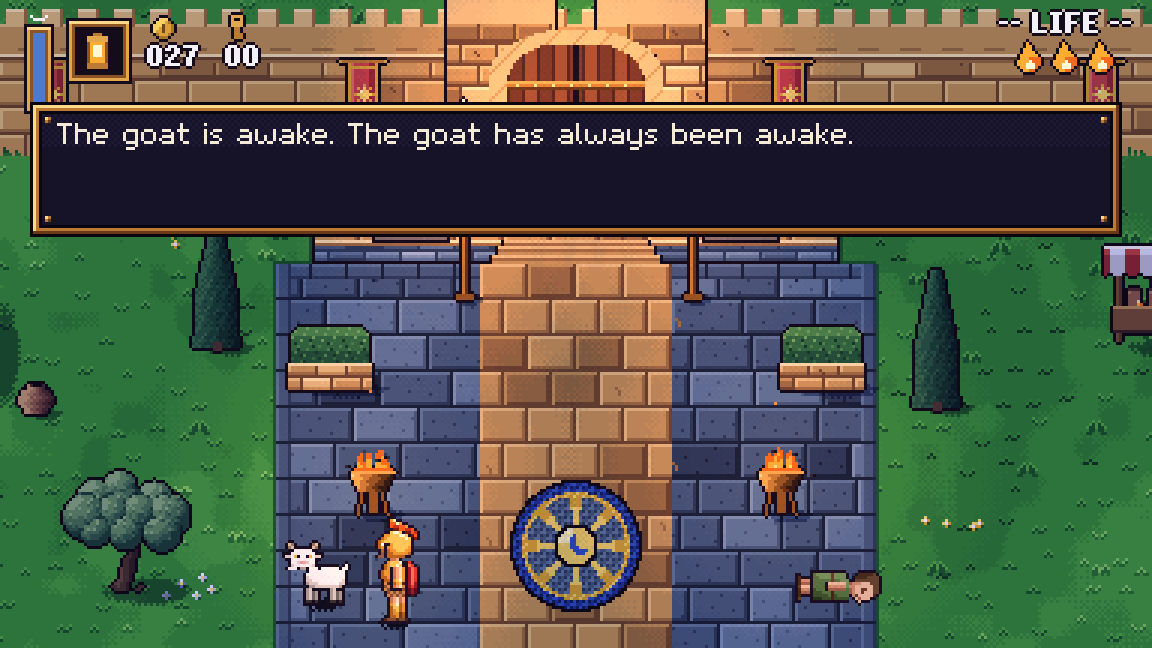
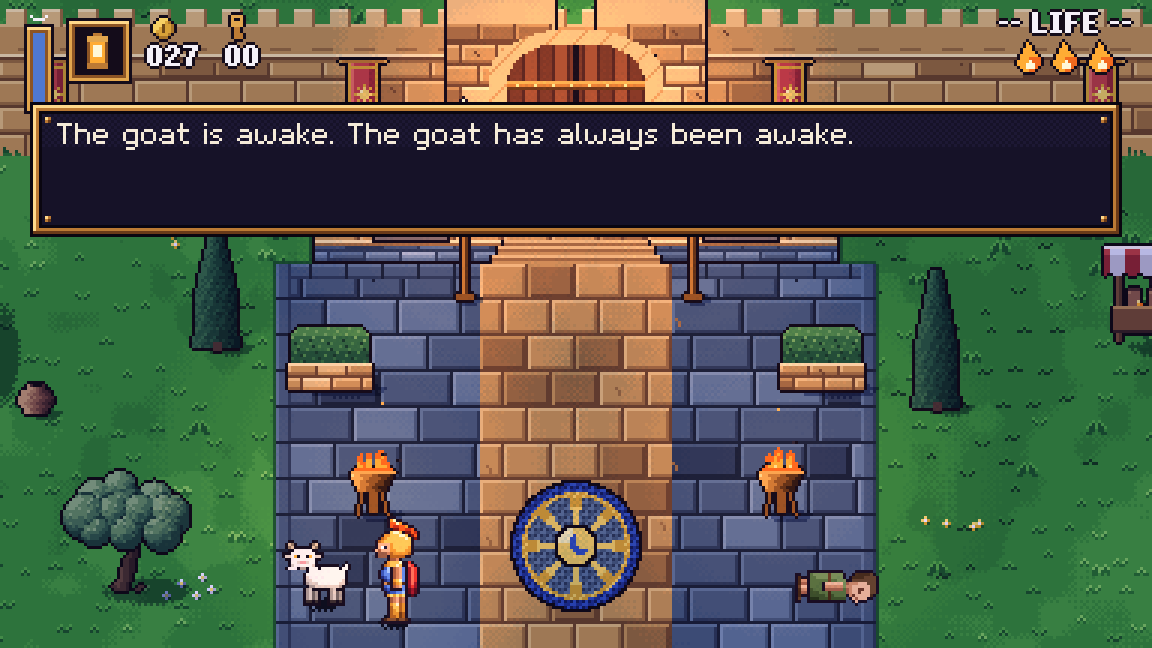
Azar in colour blocks you can read at a glance: open-faced helmet, blue tunic, red cape; Captain Dur in green; a face on the Brazen Bull; cleaner slate and marble

Changed region(s): [[0.3125, 0.8333, 0.375, 0.9259], [0.6875, 0.8642, 0.7812, 0.9259]]

diff --git a/Art/pixel/bull.py b/Art/pixel/bull.py
@@ -6,9 +6,6 @@ The body is modelled from solids (ellipsoids and tapered limbs) into a small dep
 masses that meet blend into one casting, and only real overlaps (a near leg over the barrel, the
 head over the neck) get a dark seam. Light comes from the top left; the belly picks up the fire
 from underneath. Tones are quantised to a short bronze ramp with no dithering, then the whole
-import os
-PREVIEWS = os.environ.get('WF_PREVIEWS', '/tmp/wakefire-previews')
-os.makedirs(PREVIEWS, exist_ok=True)
 silhouette gets the game's dark outline.
 
     python3 bull.py            export Resources/Sprites/bull.png/.json
@@ -18,6 +15,9 @@ import sys, math, json
 import numpy as np
 sys.path.insert(0, '/srv/Wakefire/Art/pixel')
 from px import Canvas
+import os
+PREVIEWS = os.environ.get('WF_PREVIEWS', '/tmp/wakefire-previews')
+os.makedirs(PREVIEWS, exist_ok=True)
 
 OUT = '/srv/Wakefire/Assets/Wakefire/Resources/Sprites'
 SCRATCH = PREVIEWS
@@ -283,7 +283,7 @@ def front(t=0.0, step=0.0, bob=0, head=0, jaw=0, low=0, lit=1.0, puff=0, splay=0
         S.ell(x + s_ * splay, base - 4 - lift, -13, 3.8, 2.3, 2, 'hoof')
     S.ell(cx, y0 - 35, -8, 23, 14, 12)                 # the barrel, at the sides
     S.ell(cx, y0 - 50, -4, 18, 10, 10)                 # the hump behind the head
-    S.ell(cx, y0 - 37, 0, 21, 17, 12, power=2.2)       # chest and shoulders
+    S.ell(cx, y0 - 37, 0, 21, 17, 12, 'far', power=2.2)       # chest and shoulders, darker so the head stands out
     for s_, ph in ((-1, 0.0), (1, 0.5)):
         lift = max(0, int(round(math.sin((t + ph) * 2 * math.pi) * step * 3)))
         x = cx + s_ * 11
@@ -308,11 +308,28 @@ def front(t=0.0, step=0.0, bob=0, head=0, jaw=0, low=0, lit=1.0, puff=0, splay=0
                 [2.6, 2.1, 1.5, 0.7], ['horn', 'horn', 'horn_tip'])
     cv = S.render(lit)
     grille(cv, cx - 6, y0 - 30, 13, 8, t, lit)                            # the furnace door in the chest
+    dark = rgb('#2a1208')
     for s_ in (-1, 1):
-        coal(cv, cx + s_ * 5 - (1 if s_ > 0 else 0), int(hy) - 2, lit)
-    if lit > 0.2:
-        for s_ in (-1, 1):
-            cv.px(cx + s_ * 3 - (1 if s_ > 0 else 0), int(hy) + 14 - (2 if jaw else 0), FIRE[1])
+        ex = cx + s_ * 5 - (1 if s_ > 0 else 0)
+        # a deep socket under a heavy brow, the coal burning inside it
+        for yy in range(int(hy) - 3, int(hy) + 1):
+            for xx in range(ex - 1, ex + 3):
+                cv.px(xx, yy, dark)
+        coal(cv, ex, int(hy) - 2, lit)
+        for xx in range(ex - 2, ex + 4):
+            cv.px(xx, int(hy) - 4, rgb('#ffeeb0') if s_ < 0 else rgb('#f0bc58'))
+    # the muzzle: a dark band with two burning nostrils
+    my = int(hy) + 13 - (2 if jaw else 0)
+    for xx in range(cx - 5, cx + 5):
+        cv.px(xx, my, dark); cv.px(xx, my + 1, dark)
+    for s_ in (-1, 1):
+        nx_ = cx + s_ * 3 - (1 if s_ > 0 else 0)
+        cv.px(nx_, my, FIRE[1] if lit > 0.2 else COOL[4]); cv.px(nx_, my + 1, FIRE[3] if lit > 0.2 else COOL[5])
+    # a seam down the brow and a row of rivets across the chest
+    for yy in range(int(hy) - 1, int(hy) + 10):
+        cv.px(cx, yy, rgb('#985622')) if yy % 3 else cv.px(cx, yy, rgb('#ffeeb0'))
+    for k in range(-3, 4):
+        cv.px(cx + k * 5, y0 - 33, rgb('#ffeeb0')); cv.px(cx + k * 5, y0 - 32, dark)
     ring(cv, cx - 0.5, hy + 18 - (2 if jaw else 0), 2.5)
     if jaw:
         for k in range(jaw):

diff --git a/Art/pixel/azar4.py b/Art/pixel/azar4.py
@@ -14,23 +14,23 @@ FRONT = [
     [(8, "OBWWBBBbbO")],
     [(7, "OBWBBBBBBbnO")],
     [(7, "OBBBBBBBBbnO")],
-    [(7, "OBOEObnOEOnO")],
-    [(7, "OBBbObnObnnO")],
-    [(7, "OBbOhKKhOnnO")],
-    [(7, "ObnOhhhhOnNO")],
-    [(7, "OnO.OOOO.OnO")],
+    [(7, "OBOSSSSSSOnO")],
+    [(7, "OBOPESSEPOnO")],
+    [(7, "OBOSSskSSOnO")],
+    [(7, "ObOshhhhsOnO")],
+    [(7, "OnOOhhhhOOnO")],
     [(4, "OOWBBO"), (10, "OskksO"), (16, "ObnnOO")],
     [(3, "OWBBBbO"), (10, "OCccxO"), (16, "ObbnnNO")],
-    [(2, "OcOBBbbnO"), (11, "BWBb"), (15, "OnnnNOxO")],
-    [(2, "OcOSskO"), (9, "BWBBBbbn"), (17, "OkskOxO")],
-    [(2, "OcOSskO"), (9, "BWWBBbbn"), (17, "OkskOxO")],
-    [(2, "OcOSskO"), (9, "bBBbbbnn"), (17, "OkskOxO")],
-    [(2, "OcOWBbO"), (9, "BbBBbBbn"), (17, "ObnNOxO")],
-    [(2, "OxOBbnO"), (9, "bBbbBbnn"), (17, "OnnNOxO")],
+    [(2, "OcOBBbbnO"), (11, "LUUu"), (15, "OnnnNOxO")],
+    [(2, "OcOSskO"), (9, "lLLUUuuV"), (17, "OkskOxO")],
+    [(2, "OcOSskO"), (9, "UlmLUuuV"), (17, "OkskOxO")],
+    [(2, "OcOSskO"), (9, "ULlGgUuV"), (17, "OkskOxO")],
+    [(2, "OcOWBbO"), (9, "UUUlmuuV"), (17, "ObnNOxO")],
+    [(2, "OxOBbnO"), (9, "uUUUlmuV"), (17, "OnnNOxO")],
     [(2, "OxOBbnO"), (9, "MlllGglM"), (17, "OnnNOxO")],
-    [(2, "OxOSskO"), (9, "lmlmlOZz"), (17, "OkskOxO")],
-    [(2, "OXOOOOO"), (9, "mlmlmOzZ"), (17, "OOOOOXO")],
-    [(3, "OXO"), (8, "OlmlmlOggO"), (21, "OXO")],
+    [(2, "OxOSskO"), (9, "LUUuuOZz"), (17, "OkskOxO")],
+    [(2, "OXOOOOO"), (9, "UUuuVOzZ"), (17, "OOOOOXO")],
+    [(3, "OXO"), (8, "OGgGgGOggO"), (21, "OXO")],
     [(3, "OO"), (8, "OSskOOSskO"), (21, "OO")],
     [(8, "OSskOOSskO")],
     [(8, "OSskOOSskO")],
@@ -53,24 +53,24 @@ SIDE = [
     [(5, "OrQOBWWBBBbbO")],
     [(5, "OQOBWBBBBBBbnO")],
     [(7, "OBBBBBBBBBbnO")],
-    [(7, "OBBBBBBbOOEnO")],
-    [(7, "ObBBBBBbbObnO")],
-    [(7, "ObbBBBbbnOnO")],
-    [(7, "OnbbbbbnnOhO")],
-    [(8, "OOnnnnnnOhhO")],
+    [(7, "OBBBBBBbSSSSO")],
+    [(7, "ObBBBBBbSPESO")],
+    [(7, "ObbBBBbbSSSkSO")],
+    [(7, "OnbbbbbnshhhO")],
+    [(8, "OOnnnnnOhhhO")],
     [(11, "OskkO")],
     [(7, "OcO"), (10, "OWBBBbO")],
     [(6, "OcCO"), (10, "OBWBBbnO")],
-    [(5, "OcCxO"), (9, "ObSskObnO")],
-    [(5, "OcCxO"), (9, "ObSskObbnO")],
-    [(5, "OcCxO"), (9, "ObSskObbnO")],
-    [(5, "OcCxO"), (9, "ObSskObnnO")],
-    [(5, "OcCxO"), (9, "ObWBbOnnO")],
+    [(5, "OcCxO"), (9, "OUSskOLuO")],
+    [(5, "OcCxO"), (9, "OUSskOLUuO")],
+    [(5, "OcCxO"), (9, "OUSskOUUuO")],
+    [(5, "OcCxO"), (9, "OUSskOUuVO")],
+    [(5, "OcCxO"), (9, "OUWBbOuVO")],
     [(5, "OxCxO"), (9, "OMBbnOMlO")],
-    [(5, "OxcxO"), (9, "OlSskOlmO")],
-    [(5, "OXxXO"), (9, "OmOOOOmlO")],
-    [(5, "OXxXO"), (9, "OlmlmlmO")],
-    [(6, "OXO"), (9, "OmlmlmlO")],
+    [(5, "OxcxO"), (9, "OUSskOUuO")],
+    [(5, "OXxXO"), (9, "OUOOOOuVO")],
+    [(5, "OXxXO"), (9, "OLUUuuVO")],
+    [(6, "OXO"), (9, "OGgGgGgO")],
     [(7, "OO"), (9, "OskSskO")],
     [(9, "OskSskO")],
     [(9, "OskSskO")],

diff --git a/Art/pixel/azar.py b/Art/pixel/azar.py
@@ -28,7 +28,7 @@ PAL = {
     'O': '#1c1024',
     'y': '#fff6c4', 'Y': '#ffd447', 'F': '#ff9a2a', 'R': '#e85a1e', 'r': '#b8301a', 'Q': '#6e1612',
     'W': '#fff6cc', 'B': '#f6c656', 'b': '#d9952f', 'n': '#a8621f', 'N': '#6a3a16',
-    'S': '#ffdcb8', 's': '#f0aa7c', 'k': '#c0754e', 'K': '#7e4430', 'E': '#ffffff', 'P': '#241a34',
+    'S': '#eeb088', 's': '#c8845a', 'k': '#98583a', 'K': '#6a3826', 'E': '#ffffff', 'P': '#241a34',
     'w': '#b89ac8', 'h': '#8a5a44',
     'L': '#9ccaff', 'U': '#5a8ae8', 'u': '#3456b8', 'V': '#1e2c78',
     'C': '#ff7058', 'c': '#d8342e', 'x': '#96182a', 'X': '#560e1e',
@@ -86,31 +86,26 @@ def sub(rows, i, old, new):
 
 
 def eyes(rows, view, state):
-    """In the Corinthian helmet the eyes are two glints in the slit; closing them puts them out."""
     rows = [list(r) for r in rows]
     if view == 'front':
         if state == 'half':
-            sub(rows, 10, 'OBOEObnOEOnO', 'OBOKObnOKOnO')
+            sub(rows, 11, 'PESSEP', 'KPSSPK')
         elif state == 'shut':
-            sub(rows, 10, 'OBOEObnOEOnO', 'OBOOObnOOOnO')
-        elif state == 'wide':
-            sub(rows, 10, 'OBOEObnOEOnO', 'OBEEObnOEEnO')
+            sub(rows, 11, 'PESSEP', 'KKSSKK')
     elif view == 'side':
         if state == 'half':
-            sub(rows, 9, 'OOEnO', 'OOKnO')
+            sub(rows, 10, 'SPES', 'SPKS')
         elif state == 'shut':
-            sub(rows, 9, 'OOEnO', 'OOOnO')
-        elif state == 'wide':
-            sub(rows, 9, 'OOEnO', 'OEEnO')
+            sub(rows, 10, 'SPES', 'SKKS')
     return rows
 
 
 def mouth_open(rows, view):
     rows = [list(r) for r in rows]
     if view == 'front':
-        sub(rows, 12, 'OhKKhO', 'OhOOhO')
+        sub(rows, 13, 'shhhhs', 'shOOhs')
     elif view == 'side':
-        sub(rows, 12, 'nOhO', 'nOOO')
+        sub(rows, 12, 'shhhO', 'sOOhO')
     return rows
 
 

diff --git a/Art/pixel/ashkel_art.py b/Art/pixel/ashkel_art.py
@@ -108,8 +108,6 @@ def pavers(cv, x0, y0, w, h, seed=2):
                         col = c[base + 1]
                     elif ly == bh - 2 or lx == bw - 2:
                         col = c[max(0, base - 1)]
-                    elif (xx * 7 + yy * 13 + seed) % 31 == 0:
-                        col = c[max(0, base - 1)]
                     cv.px(xx, yy, col)
             if rng.random() < 0.14:
                 sx, sy = x + int(rng.integers(3, bw - 5)), y + 2
@@ -138,8 +136,6 @@ def marble(cv, x0, y0, w, h, T=24, seed=3):
                 col = mb[base + 1]
             elif lx == T - 2 or ly == T - 2:
                 col = mb[base - 1]
-            elif ((lx + ly * 2 + tx * 5 + ty * 3) % 19 == 0 and (lx * 3 + ly) % 5 < 3):
-                col = mb[base - 1]          # veins
             cv.px(x, y, col)
     for ty in range(1, h // T + 1):
         for tx in range(1, w // T + 1):

diff --git a/Art/pixel/folk4.py b/Art/pixel/folk4.py
@@ -18,13 +18,15 @@ DUR = {
     'y': '#8a8a9a', 'Y': '#5a5a6c', 'F': '#3c3c4c', 'R': '#2a2a38', 'r': '#1e1e2a', 'Q': '#141420',
     'C': '#a03a3a', 'c': '#7a2430', 'x': '#561824', 'X': '#360e18',
     'S': '#eab890', 's': '#c88a64', 'k': '#9a5c40',
+    'L': '#8ac08a', 'U': '#4e9a5a', 'u': '#2e6e40', 'V': '#1a4428',
 }
 BRONZE = {
     # a statue: everything cast in bronze, the eyes two coals
     'y': '#fff0b0', 'Y': '#f2c25c', 'F': '#c98a34', 'R': '#9a5c22', 'r': '#6c3a16', 'Q': '#46240e',
     'S': '#e8b860', 's': '#c08a36', 'k': '#8e5a22', 'K': '#5a3414', 'h': '#7a4a1c',
     'C': '#d09a44', 'c': '#a8702c', 'x': '#7c4a1c', 'X': '#52300e',
-    'l': '#b08040', 'm': '#7c5228', 'M': '#4a3016', 'E': '#ffb43a',
+    'l': '#b08040', 'm': '#7c5228', 'M': '#4a3016', 'E': '#ffb43a', 'P': '#ff7a1e',
+    'L': '#f2c25c', 'U': '#d09a44', 'u': '#a8702c', 'V': '#7c4a1c',
 }
 
 
